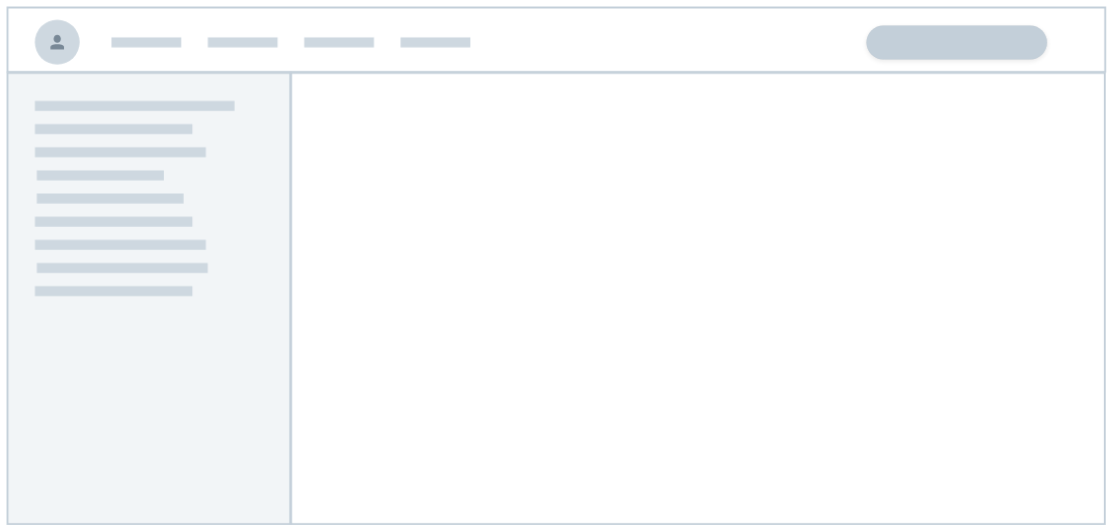
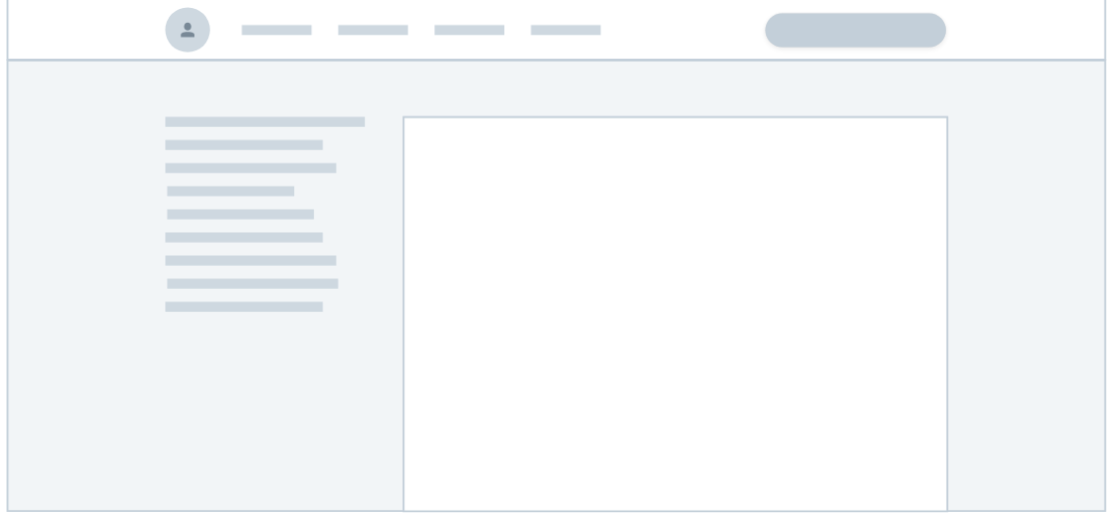
GITBOOK-129: No subject

Changed region(s): [[0.0, 0.0, 1.0, 0.1541], [0.0305, 0.185, 0.336, 0.6166], [0.3666, 0.2158, 0.8553, 0.2466]]

diff --git a/galeria-de-layouts/layouts-de-aplicacao.md b/galeria-de-layouts/layouts-de-aplicacao.md
@@ -14,18 +14,21 @@ São estruturas visuais essenciais que ajudam a organizar o conteúdo e as funç
 
 2. **Navegação horizontal sobrepondo navegação vertical**: Prioriza a navegação horizontal no topo, com opções verticais complementares, facilitando o acesso direto a categorias maiores.
 
-<figure><img src="../.gitbook/assets/image.png" alt=""><figcaption></figcaption></figure>
+<figure><img src="../.gitbook/assets/image (2).png" alt=""><figcaption></figcaption></figure>
 
 3. **Área de conteúdo limitada com navegação vertical**: Conteúdo centralizado com navegação vertical ao lado, ideal para foco em elementos específicos sem distrações.
 
+<figure><img src="../.gitbook/assets/image.png" alt=""><figcaption></figcaption></figure>
 
+4. **Área de conteúdo limitada com navegação horizontal de largura total**: Espaço de conteúdo delimitado com uma barra de navegação horizontal extensa, oferecendo visibilidade clara das seções disponíveis.
 
-3. **Área de conteúdo limitada com navegação horizontal de largura total**: Espaço de conteúdo delimitado com uma barra de navegação horizontal extensa, oferecendo visibilidade clara das seções disponíveis.
-4. **Layout de cartões**: Organiza informações em blocos ou "cartões", permitindo uma interface limpa e modular, ideal para dashboards ou resumos.
-5. **Apenas barra lateral**: Uma barra lateral contém todas as opções de navegação e ferramentas, maximizando o espaço de conteúdo principal.
-6. **Apenas navegação por ícones na barra lateral**: Navegação minimalista com ícones, economizando espaço enquanto oferece acesso rápido às funções principais através de uma barra lateral.
-7. **Layout de três colunas**: Divide a tela em três áreas, permitindo uma distribuição equilibrada de conteúdo, navegação e funcionalidades adicionais.
-8. **Coluna secundária à direita**: Adiciona uma coluna à direita para informações ou ações secundárias, complementando o conteúdo principal sem sobrecarregar.
+<figure><img src="../.gitbook/assets/image (1).png" alt=""><figcaption></figcaption></figure>
+
+5. **Layout de cartões**: Organiza informações em blocos ou "cartões", permitindo uma interface limpa e modular, ideal para dashboards ou resumos.
+6. **Apenas barra lateral**: Uma barra lateral contém todas as opções de navegação e ferramentas, maximizando o espaço de conteúdo principal.
+7. **Apenas navegação por ícones na barra lateral**: Navegação minimalista com ícones, economizando espaço enquanto oferece acesso rápido às funções principais através de uma barra lateral.
+8. **Layout de três colunas**: Divide a tela em três áreas, permitindo uma distribuição equilibrada de conteúdo, navegação e funcionalidades adicionais.
+9. **Coluna secundária à direita**: Adiciona uma coluna à direita para informações ou ações secundárias, complementando o conteúdo principal sem sobrecarregar.
 
 ## Para Saber Mais
 

diff --git a/guia-de-identidade-visual/marca.md b/guia-de-identidade-visual/marca.md
@@ -12,13 +12,13 @@ O Nafto segue as especificações da [Marca Petrobras](https://petrobras.com.br/
 
 A marca é uma composição entre símbolo (a) e logotipo (b).
 
-<figure><img src="../.gitbook/assets/image (1) (1) (1) (1) (1).png" alt=""><figcaption><p>Crédito da imagem: Manual do Sistema de Identidade Visual Petrobras</p></figcaption></figure>
+<figure><img src="../.gitbook/assets/image (1) (1) (1) (1) (1) (1).png" alt=""><figcaption><p>Crédito da imagem: Manual do Sistema de Identidade Visual Petrobras</p></figcaption></figure>
 
 ## Área de Não Interferência
 
 É a distância mínima entre a marca e qualquer elemento que possa interferir na sua visualização. Essa distância é determinada pela altura (x) das letras “BR”.
 
-<figure><img src="../.gitbook/assets/image (1) (1) (1) (1) (1) (1).png" alt=""><figcaption><p>Crédito da imagem: Manual do Sistema de Identidade Visual Petrobras</p></figcaption></figure>
+<figure><img src="../.gitbook/assets/image (1) (1) (1) (1) (1) (1) (1).png" alt=""><figcaption><p>Crédito da imagem: Manual do Sistema de Identidade Visual Petrobras</p></figcaption></figure>
 
 ## Redução Máxima
 

diff --git a/tecnologias-e-plataformas/react/README.md b/tecnologias-e-plataformas/react/README.md
@@ -10,7 +10,7 @@ React é uma biblioteca JavaScript desenvolvida pelo Facebook (hoje Meta) para a
 
 Construída sobre a fundação do React, a biblioteca MUI oferece uma gama extensa de componentes de UI prontos para uso, que facilitam o desenvolvimento de interfaces ricas e consistentes. É a biblioteca recomenda para o desenvolvimento de aplicações React. O MUI é baseado nas especificações do Material Design do Google.
 
-<figure><img src="../../.gitbook/assets/image (1) (1).png" alt=""><figcaption><p>Relacionamento entre Material UI e Material Design</p></figcaption></figure>
+<figure><img src="../../.gitbook/assets/image (1) (1) (1).png" alt=""><figcaption><p>Relacionamento entre Material UI e Material Design</p></figcaption></figure>
 
 ## Produtos Oferecidos pela MUI <a href="#produtos-oferecidos-pela-mui" id="produtos-oferecidos-pela-mui"></a>
 

diff --git a/guia-de-identidade-visual/cores.md b/guia-de-identidade-visual/cores.md
@@ -10,7 +10,7 @@ São as cores presentes no símbolo e no logotipo da marca Petrobras e suas vers
 
 &#x20;É útil ter variantes claras e escuras das cores primárias para compor o tema de cores de uma aplicação.  Ao usar o plugin "Material Palette" no Figma para a cor Verde Petrobras o plugin gera uma paleta de cores completa baseada nessa cor específica.
 
-<figure><img src="../.gitbook/assets/image (1) (1) (1) (1).png" alt=""><figcaption><p>Verde Petrobras e Variações</p></figcaption></figure>
+<figure><img src="../.gitbook/assets/image (1) (1) (1) (1) (1).png" alt=""><figcaption><p>Verde Petrobras e Variações</p></figcaption></figure>
 
 Além das variações claras e escuras o Material Design define cores de destaque (accente colors: a100, a200, a400 e a700) quando possível.
 

diff --git a/tecnologias-e-plataformas/react/nafto-ui-kit-para-react.md b/tecnologias-e-plataformas/react/nafto-ui-kit-para-react.md
@@ -8,7 +8,7 @@ description: É a referência para os designers projetarem aplicações React.
 
 O Nafto UI Kit para React é um arquivo do Figma usado por designers no desenvolvimento de aplicações React. Ele é baseado no Material UI for Figma.
 
-<figure><img src="../../.gitbook/assets/image (1).png" alt=""><figcaption><p>O Nafto UI Kit para React é utilizado pelos designers e é baseado no MUI for Figma</p></figcaption></figure>
+<figure><img src="../../.gitbook/assets/image (1) (1).png" alt=""><figcaption><p>O Nafto UI Kit para React é utilizado pelos designers e é baseado no MUI for Figma</p></figcaption></figure>
 
 As customizações realizadas no MUI for Figma incluem:
 
